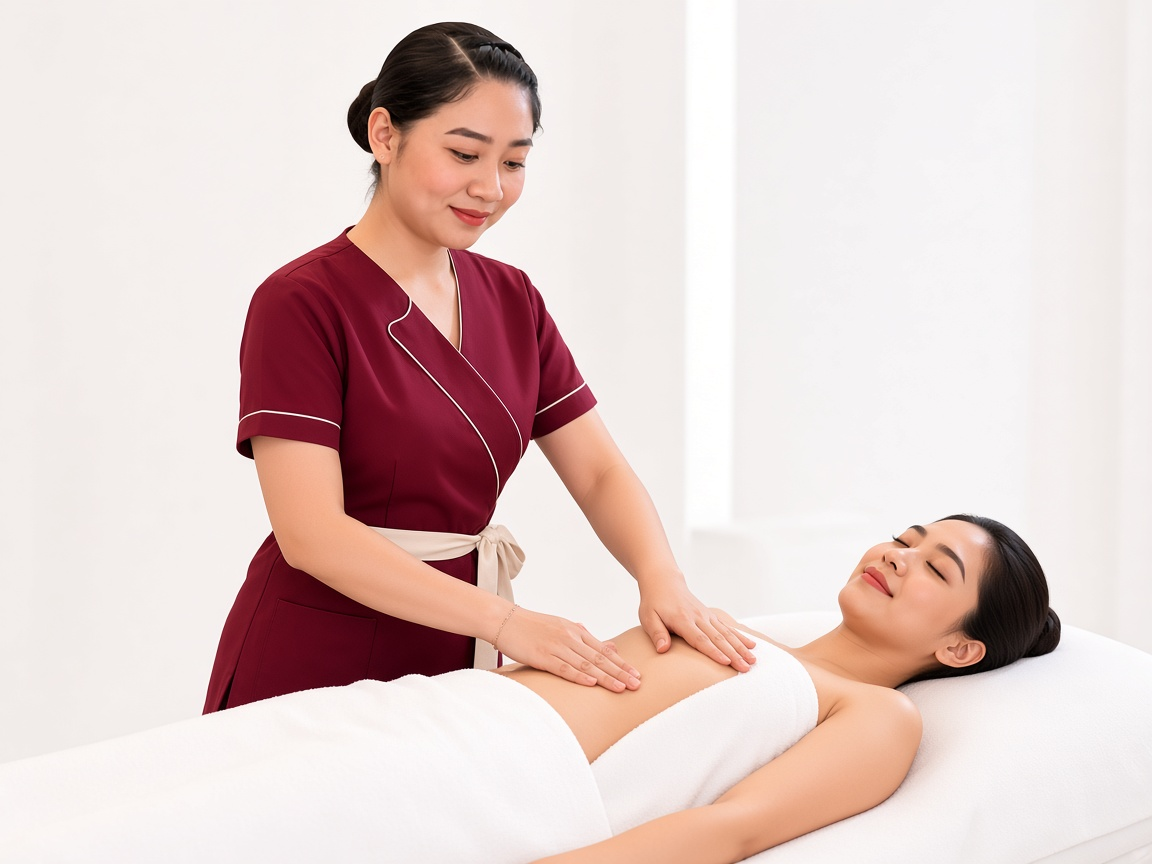
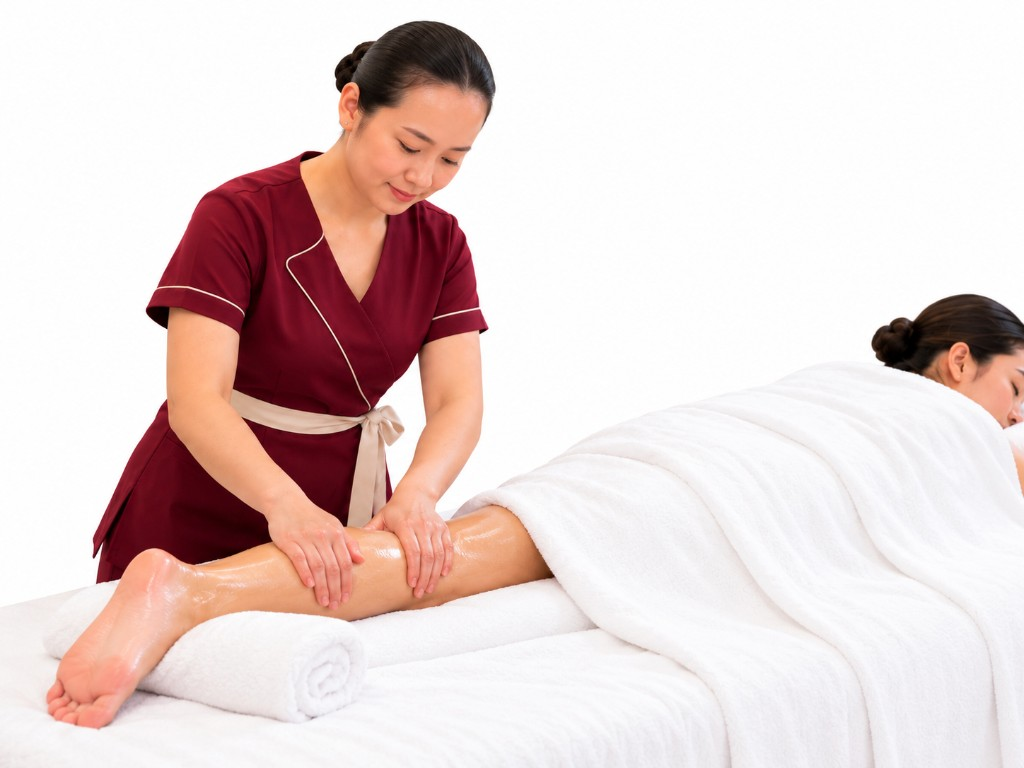
added changes

diff --git a/src/app/deep-tissue/page.tsx b/src/app/deep-tissue/page.tsx
@@ -27,7 +27,7 @@ const treatments = [
   {
     id: 'lymphatic-drainage',
     name: 'Lymphatic Drainage',
-    image: '/images/massages/lymphatic.jpg',
+    image: '/images/massages/lymphatic-v2.jpg',
     highlights: ['Gentle, rhythmic strokes', 'Helps ease puffiness', 'Light and relaxing'],
   },
   {
@@ -73,7 +73,7 @@ export default function DeepTissue() {
           <div className="pkg-hero-collage" aria-hidden="true">
             <Image className="pkg-collage-main" src="/images/massages/deep-tissue-v2.jpg" alt="" width={1152} height={864} priority sizes="(max-width:900px) 92vw, 520px" />
             <Image className="pkg-collage-small pkg-collage-a" src="/images/massages/hot-stone.jpg" alt="" width={1152} height={864} sizes="220px" />
-            <Image className="pkg-collage-small pkg-collage-b" src="/images/massages/lymphatic.jpg" alt="" width={1152} height={864} sizes="220px" />
+            <Image className="pkg-collage-small pkg-collage-b" src="/images/massages/lymphatic-v2.jpg" alt="" width={1152} height={864} sizes="220px" />
           </div>
         </div>
       </section>

diff --git a/src/lib/massage-data.ts b/src/lib/massage-data.ts
@@ -59,7 +59,7 @@ export const massages: Massage[] = [
     name: 'Lymphatic Drainage',
     short: 'Light strokes to ease heaviness.',
     description: 'Light, rhythmic strokes that help ease puffiness and leave the body feeling lighter.',
-    image: '/images/massages/lymphatic.jpg',
+    image: '/images/massages/lymphatic-v2.jpg',
     alt: "Therapist gliding both hands along a client's arm",
     highlights: ['Gentle, rhythmic strokes', 'Helps ease puffiness', 'Light and relaxing', 'At your home or hotel'],
   },
